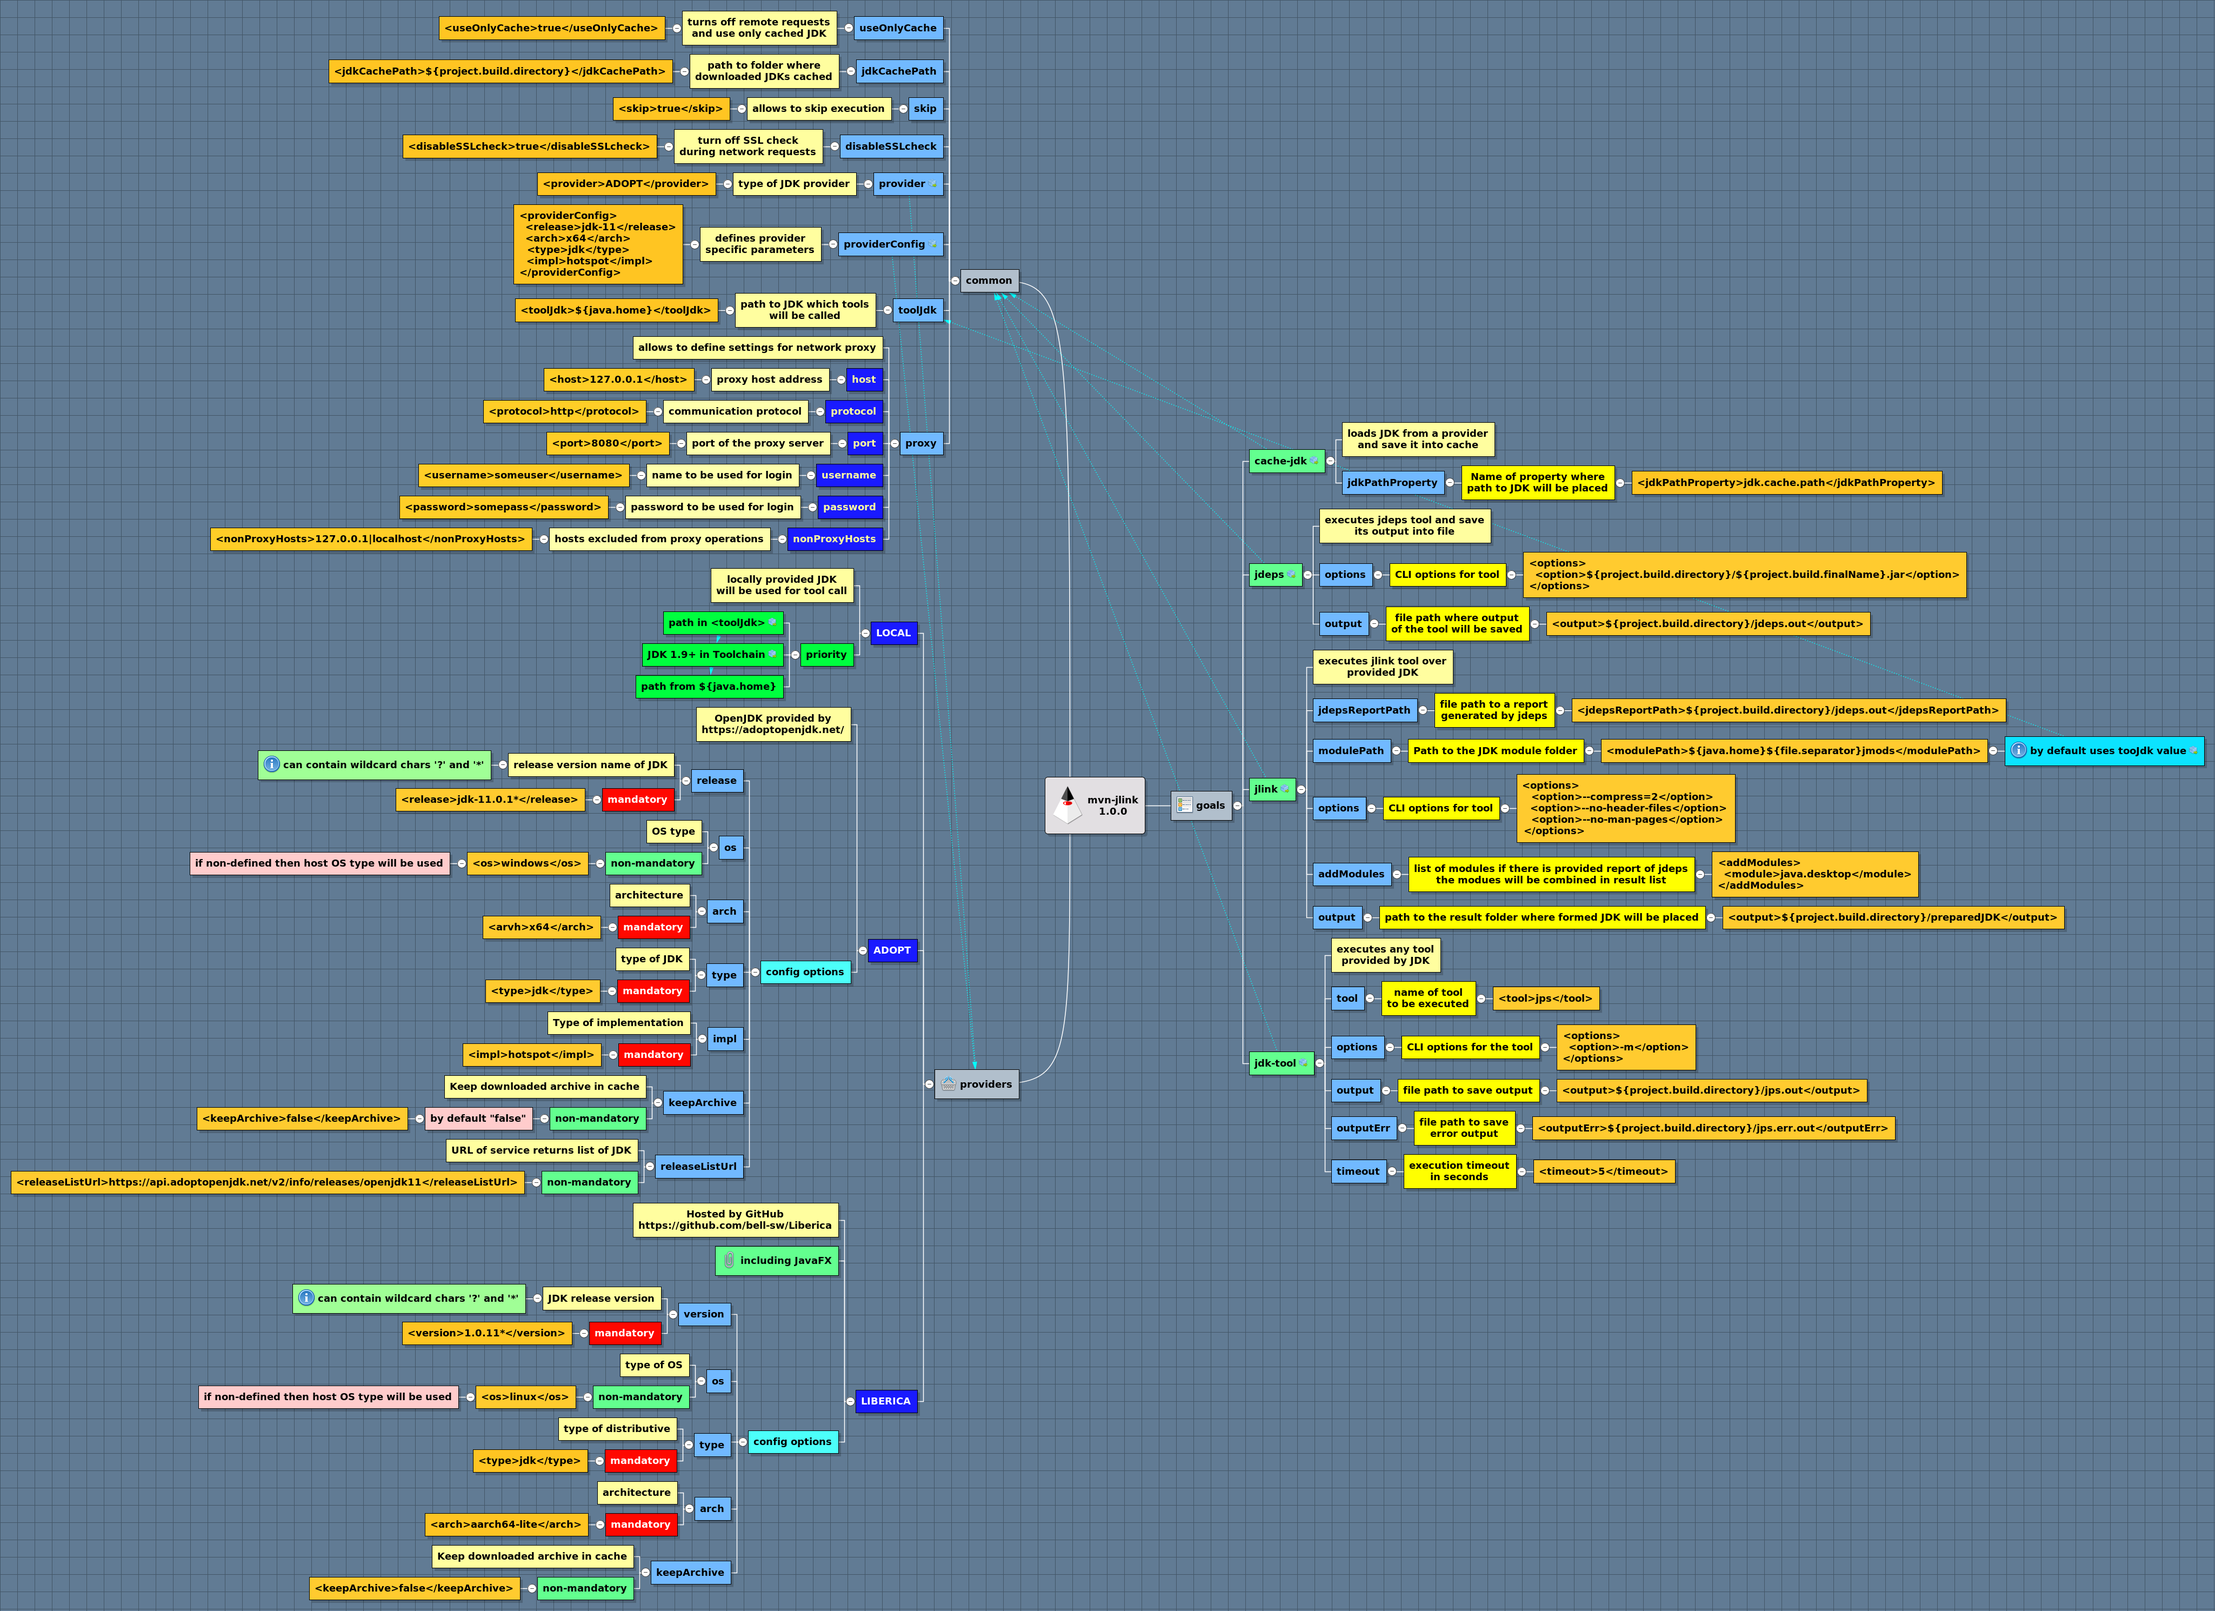
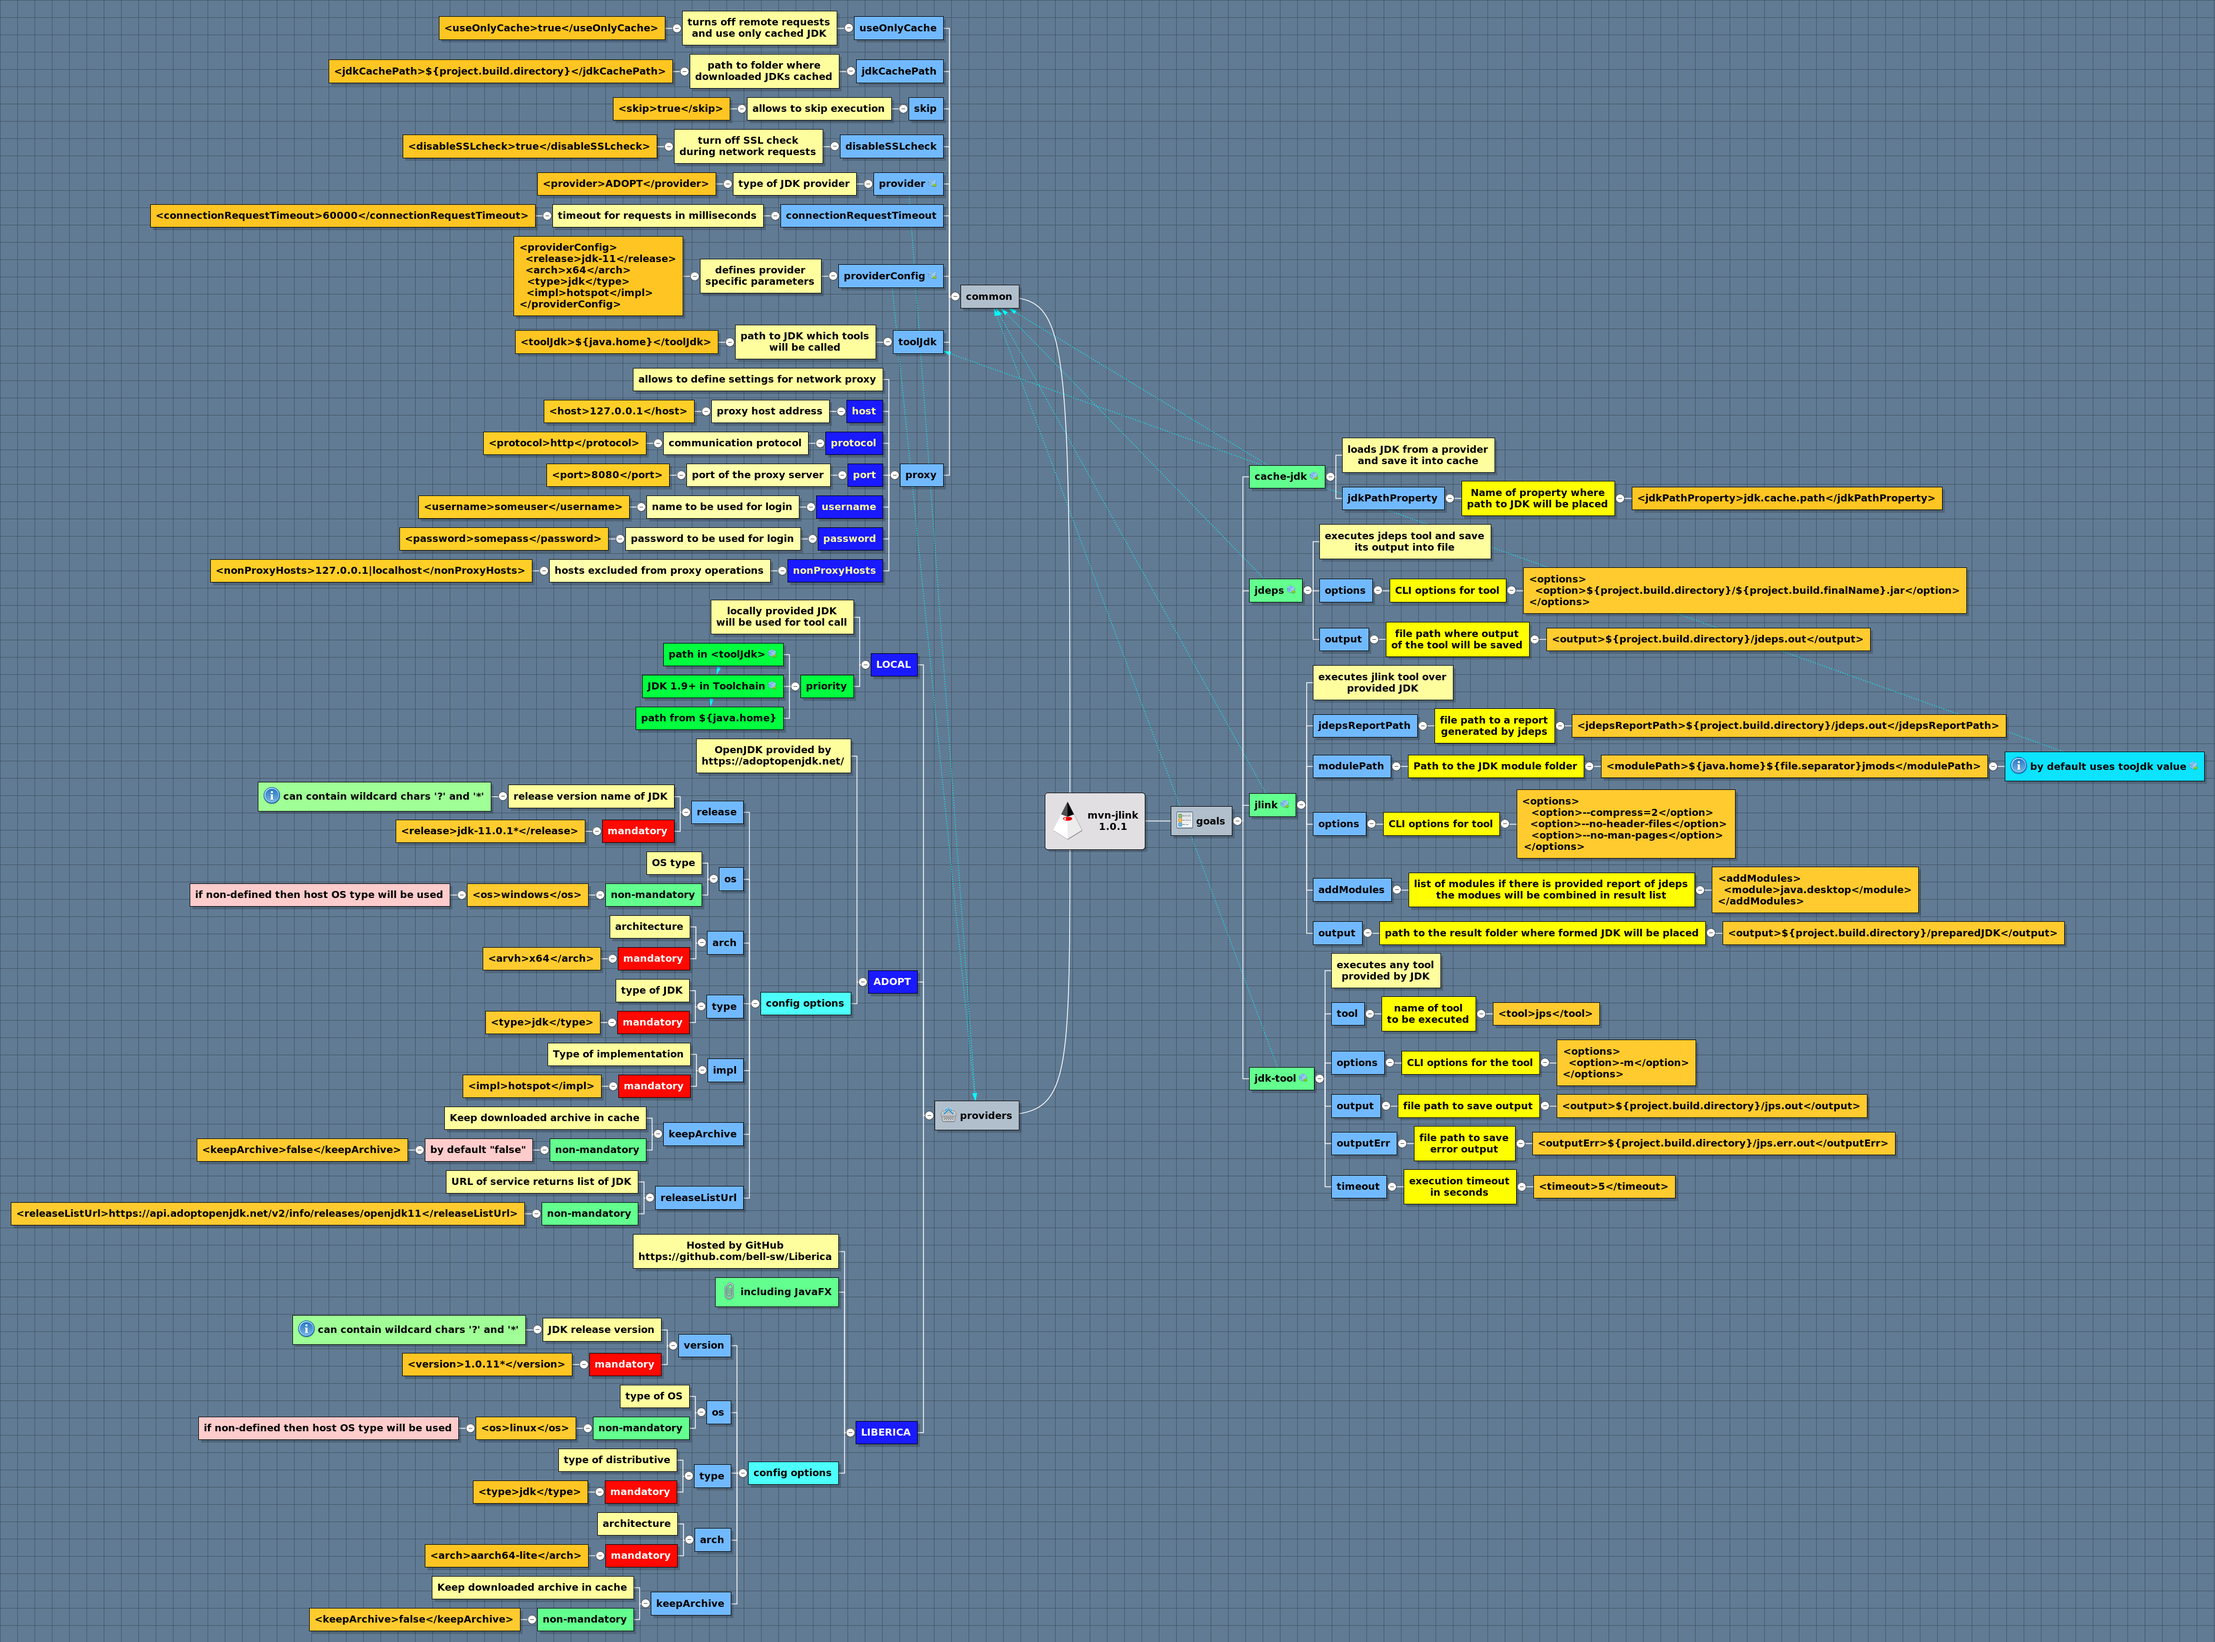
prepare release 1.0.1

diff --git a/mvn-jlink-wrapper/src/main/java/com/igormaznitsa/mvnjlink/jdkproviders/AbstractJdkProvider.java b/mvn-jlink-wrapper/src/main/java/com/igormaznitsa/mvnjlink/jdkproviders/AbstractJdkProvider.java
@@ -152,7 +152,7 @@ public abstract class AbstractJdkProvider {
   }
 
   @Nonnull
-  protected String doHttpGetText(@Nonnull final HttpClient client, @Nonnull final String url, @Nonnull @MustNotContainNull String... acceptedContent) throws IOException {
+  protected String doHttpGetText(@Nonnull final HttpClient client, @Nonnull final String url, final int connectionRequestTimeout, @Nonnull @MustNotContainNull String... acceptedContent) throws IOException {
     final AtomicReference<String> result = new AtomicReference<>();
     doGetRequest(client, url, this.mojo.getProxy(), x -> {
       try {
@@ -160,7 +160,7 @@ public abstract class AbstractJdkProvider {
       } catch (IOException ex) {
         throw new IORuntimeWrapperException(ex);
       }
-    }, acceptedContent);
+    },  connectionRequestTimeout, acceptedContent);
     return result.get();
   }
 
@@ -177,9 +177,9 @@ public abstract class AbstractJdkProvider {
    */
   @MustNotContainNull
   @Nonnull
-  protected Header[] doHttpGetIntoFile(@Nonnull final HttpClient client, @Nonnull final String url, @Nonnull final Path targetFile, @Nonnull final MessageDigest digest, @Nonnull @MustNotContainNull final String... acceptedContent) throws IOException {
+  protected Header[] doHttpGetIntoFile(@Nonnull final HttpClient client, @Nonnull final String url, @Nonnull final Path targetFile, @Nonnull final MessageDigest digest, final int connectionRequestTimeout, @Nonnull @MustNotContainNull final String... acceptedContent) throws IOException {
     final Log log = this.mojo.getLog();
-    log.debug(format("Loading %s into file %s", url, targetFile.toString()));
+    log.debug(format("Loading %s into file %s, request timeout %d ms", url, targetFile.toString(), connectionRequestTimeout));
 
     Header[] responseHeaders = null;
 
@@ -238,7 +238,7 @@ public abstract class AbstractJdkProvider {
             System.out.println();
           }
         }
-      }, acceptedContent);
+      }, connectionRequestTimeout, acceptedContent);
     } catch (IORuntimeWrapperException ex) {
       throw ex.getWrapped();
     }

diff --git a/mvn-jlink-wrapper/src/main/java/com/igormaznitsa/mvnjlink/jdkproviders/providers/AdoptOpenJdkProvider.java b/mvn-jlink-wrapper/src/main/java/com/igormaznitsa/mvnjlink/jdkproviders/providers/AdoptOpenJdkProvider.java
@@ -138,7 +138,7 @@ public class AdoptOpenJdkProvider extends AbstractJdkProvider {
           } catch (IOException ex) {
             throw new IORuntimeWrapperException(ex);
           }
-        }, "application/json");
+        }, this.mojo.getConnectionRequestTimeout(), "application/json");
       } catch (IORuntimeWrapperException ex) {
         throw ex.getWrapped();
       }
@@ -192,7 +192,7 @@ public class AdoptOpenJdkProvider extends AbstractJdkProvider {
 
     final String digestCode;
     if (!binary.linkHash.isEmpty()) {
-      digestCode = StringUtils.extractFileHash(doHttpGetText(client, binary.linkHash, "text/plain"));
+      digestCode = StringUtils.extractFileHash(doHttpGetText(client, binary.linkHash, this.mojo.getConnectionRequestTimeout(), "text/plain"));
       log.info("Expected archive SHA256 digest: " + digestCode);
     } else {
       log.warn("The Release doesn't have listed hash link");
@@ -223,7 +223,7 @@ public class AdoptOpenJdkProvider extends AbstractJdkProvider {
 
     if (doLoadArchive) {
       final MessageDigest digest = DigestUtils.getSha256Digest();
-      doHttpGetIntoFile(client, binary.link, archiveFile, digest);
+      doHttpGetIntoFile(client, binary.link, archiveFile, digest, this.mojo.getConnectionRequestTimeout());
       final String calculatedStreamDigest = Hex.encodeHexString(digest.digest());
 
       log.info("Archive has been loaded successfuly, calculated SHA256 digest is " + calculatedStreamDigest);

diff --git a/mvn-jlink-wrapper/src/main/java/com/igormaznitsa/mvnjlink/jdkproviders/providers/LibericaOpenJdkProvider.java b/mvn-jlink-wrapper/src/main/java/com/igormaznitsa/mvnjlink/jdkproviders/providers/LibericaOpenJdkProvider.java
@@ -96,7 +96,7 @@ public class LibericaOpenJdkProvider extends AbstractJdkProvider {
       }
 
       final HttpClient httpClient = HttpUtils.makeHttpClient(log, this.mojo.getProxy(), this.mojo.isDisableSSLcheck());
-      final ReleaseList releaseList = new ReleaseList(log, doHttpGetText(httpClient, RELEASES_LIST, "application/vnd.github.v3+json"));
+      final ReleaseList releaseList = new ReleaseList(log, doHttpGetText(httpClient, RELEASES_LIST, this.mojo.getConnectionRequestTimeout(),"application/vnd.github.v3+json"));
 
       final List<ReleaseList.Release> releases = releaseList.find(jdkType, jdkVersion, jdkOs, jdkArch);
 
@@ -140,7 +140,7 @@ public class LibericaOpenJdkProvider extends AbstractJdkProvider {
 
     if (doLoadArchive) {
       final MessageDigest digest = DigestUtils.getMd5Digest();
-      final Header[] responseHeaders = this.doHttpGetIntoFile(client, release.link, pathToArchiveFile, digest, release.mime);
+      final Header[] responseHeaders = this.doHttpGetIntoFile(client, release.link, pathToArchiveFile, digest, this.mojo.getConnectionRequestTimeout(), release.mime);
 
       log.debug("Response headers: " + Arrays.toString(responseHeaders));
 

diff --git a/mvn-jlink-wrapper/src/main/java/com/igormaznitsa/mvnjlink/mojos/AbstractJdkToolMojo.java b/mvn-jlink-wrapper/src/main/java/com/igormaznitsa/mvnjlink/mojos/AbstractJdkToolMojo.java
@@ -87,6 +87,13 @@ public abstract class AbstractJdkToolMojo extends AbstractMojo {
   private boolean disableSSLcheck;
 
   /**
+   * Define connection request timeout for requests in milliseconds.
+   * @since 1.0.1
+   */
+  @Parameter(name = "connectionRequestTimeout", defaultValue = "30000")
+  private int connectionRequestTimeout = 30000;
+
+  /**
    * Proxy settings for network operations.
    */
   @Parameter(name = "proxy")
@@ -112,6 +119,10 @@ public abstract class AbstractJdkToolMojo extends AbstractMojo {
 
   @Component
   private ToolchainManager toolchainManager;
+
+  public int getConnectionRequestTimeout() {
+    return this.connectionRequestTimeout;
+  }
 
   public boolean isUseOnlyCache() {
     return this.useOnlyCache;

diff --git a/mvn-jlink-wrapper/src/main/java/com/igormaznitsa/mvnjlink/utils/HttpUtils.java b/mvn-jlink-wrapper/src/main/java/com/igormaznitsa/mvnjlink/utils/HttpUtils.java
@@ -77,9 +77,11 @@ public final class HttpUtils {
       @Nonnull final String urlLink,
       @Nullable final ProxySettings proxySettings,
       @Nonnull final Consumer<HttpEntity> consumer,
+      final int connectionRequestTimeout,
       @Nonnull @MustNotContainNull final String... acceptedContent
   ) throws IOException {
     final RequestConfig.Builder config = RequestConfig.custom();
+    config.setConnectionRequestTimeout(connectionRequestTimeout);
 
     if (proxySettings != null) {
       final HttpHost proxyHost = new HttpHost(proxySettings.host, proxySettings.port, proxySettings.protocol);

diff --git a/README.md b/README.md
@@ -8,7 +8,8 @@
 ![logo](https://raw.githubusercontent.com/raydac/mvn-jlink/master/assets/logo.png)   
 
 # Changelog
-__1.0.1 (SNAPSHOT)__
+__1.0.1 (20-jan-2019)__
+ - added parameter `connectionRequestTimeout` for requests
  - improved Liberica file name parser to support chars in JDK version
  - improved bin folder search
  - added existing of jmods folder
@@ -38,6 +39,7 @@ The example of configuration caches OpenJDK from ADOPT provider in project build
 <plugin>
     <groupId>com.igormaznitsa</groupId>
     <artifactId>mvn-jlink-wrapper</artifactId>
+    <version>1.0.1</version>
     <executions>
         <execution>
             <id>cache-jdk-8</id>
@@ -70,6 +72,7 @@ The example calls jdeps tool from provided JDK over project jar file and saves o
 <plugin>
     <groupId>com.igormaznitsa</groupId>
     <artifactId>mvn-jlink-wrapper</artifactId>
+    <version>1.0.1</version>
     <executions>
         <execution>
             <id>call-jdeps</id>
@@ -95,6 +98,7 @@ The example calls `jlink` from provided JDK and build JDK version based on repor
 <plugin>
     <groupId>com.igormaznitsa</groupId>
     <artifactId>mvn-jlink-wrapper</artifactId>
+    <version>1.0.1</version>
     <executions>
         <execution>
             <id>call-jlink</id>
@@ -126,6 +130,7 @@ The example calls jps tool from provided tool JDK with 5 seconds timeout and its
 <plugin>
     <groupId>com.igormaznitsa</groupId>
     <artifactId>mvn-jlink-wrapper</artifactId>
+    <version>1.0.1</version>
     <executions>
         <execution>
             <id>call-tool</id>
